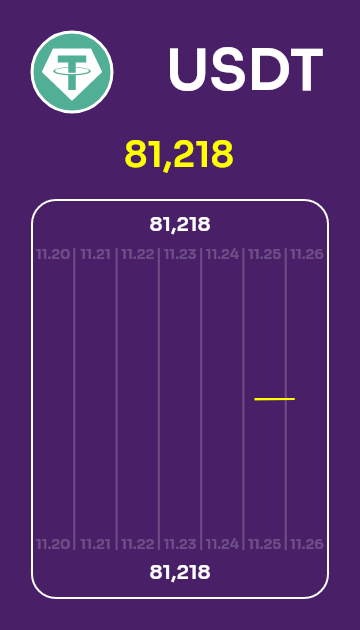
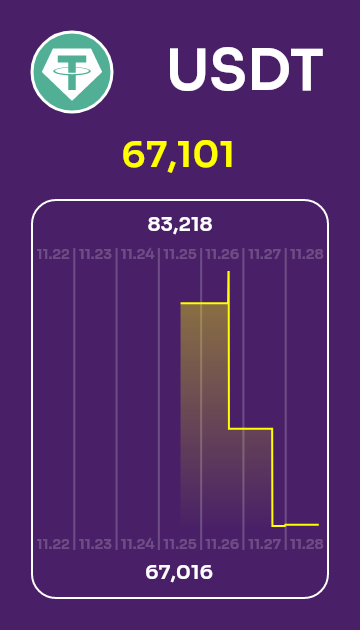
0.2.0: Render README.md

diff --git a/render.js b/render.js
@@ -23,9 +23,20 @@ const path = "./fonts/Sora-SemiBold.ttf";
 const file = Deno.readFileSync(path);
 Fonts.register(file, "sora");
 
-tokens.forEach(makeCart);
+(function renderReadme() {
+  const header = "# [Sora qty weekly analyzer](https://sora-qty.info)\n";
+  const pics = tokens
+    .map((token) => {
+      const url = "https://mof.sora.org/qty/" + token;
+      return `[![${url}](./images/${token}.png "${url}")](${url})`;
+    })
+    .join("\n");
+  Deno.writeTextFileSync("./README.md", header + pics);
+})();
 
-function makeCart(token) {
+tokens.forEach(renderCart);
+
+function renderCart(token) {
   const width = 360;
   const height = 630;
   const canvas = createCanvas(width, height);
@@ -114,7 +125,8 @@ function drawPolyline(ctx, points, { filled = false } = {}) {
     const allY = points.map(([_, y]) => y);
     const y1 = Math.min(...allY);
     const y2 = Math.max(...allY) + ctx.lineWidth;
-    const gradient = ctx.createLinearGradient(x1, y1, x2, y2);
+    const x = (x1 + x2) / 2;
+    const gradient = ctx.createLinearGradient(x, y1, x, y2);
     gradient.addColorStop(0, "rgba(255, 255, 0, 0.4)");
     gradient.addColorStop(1, "rgba(255, 255, 0, 0)");
     ctx.fillStyle = gradient;

diff --git a/README.md b/README.md
@@ -1,0 +1,11 @@
+# [Sora qty weekly analyzer](https://sora-qty.info)
+[![https://mof.sora.org/qty/xor](./images/xor.png "https://mof.sora.org/qty/xor")](https://mof.sora.org/qty/xor)
+[![https://mof.sora.org/qty/xstusd](./images/xstusd.png "https://mof.sora.org/qty/xstusd")](https://mof.sora.org/qty/xstusd)
+[![https://mof.sora.org/qty/val](./images/val.png "https://mof.sora.org/qty/val")](https://mof.sora.org/qty/val)
+[![https://mof.sora.org/qty/xst](./images/xst.png "https://mof.sora.org/qty/xst")](https://mof.sora.org/qty/xst)
+[![https://mof.sora.org/qty/pswap](./images/pswap.png "https://mof.sora.org/qty/pswap")](https://mof.sora.org/qty/pswap)
+[![https://mof.sora.org/qty/eth](./images/eth.png "https://mof.sora.org/qty/eth")](https://mof.sora.org/qty/eth)
+[![https://mof.sora.org/qty/dai](./images/dai.png "https://mof.sora.org/qty/dai")](https://mof.sora.org/qty/dai)
+[![https://mof.sora.org/qty/usdc](./images/usdc.png "https://mof.sora.org/qty/usdc")](https://mof.sora.org/qty/usdc)
+[![https://mof.sora.org/qty/usdt](./images/usdt.png "https://mof.sora.org/qty/usdt")](https://mof.sora.org/qty/usdt)
+[![https://mof.sora.org/qty/busd](./images/busd.png "https://mof.sora.org/qty/busd")](https://mof.sora.org/qty/busd)
